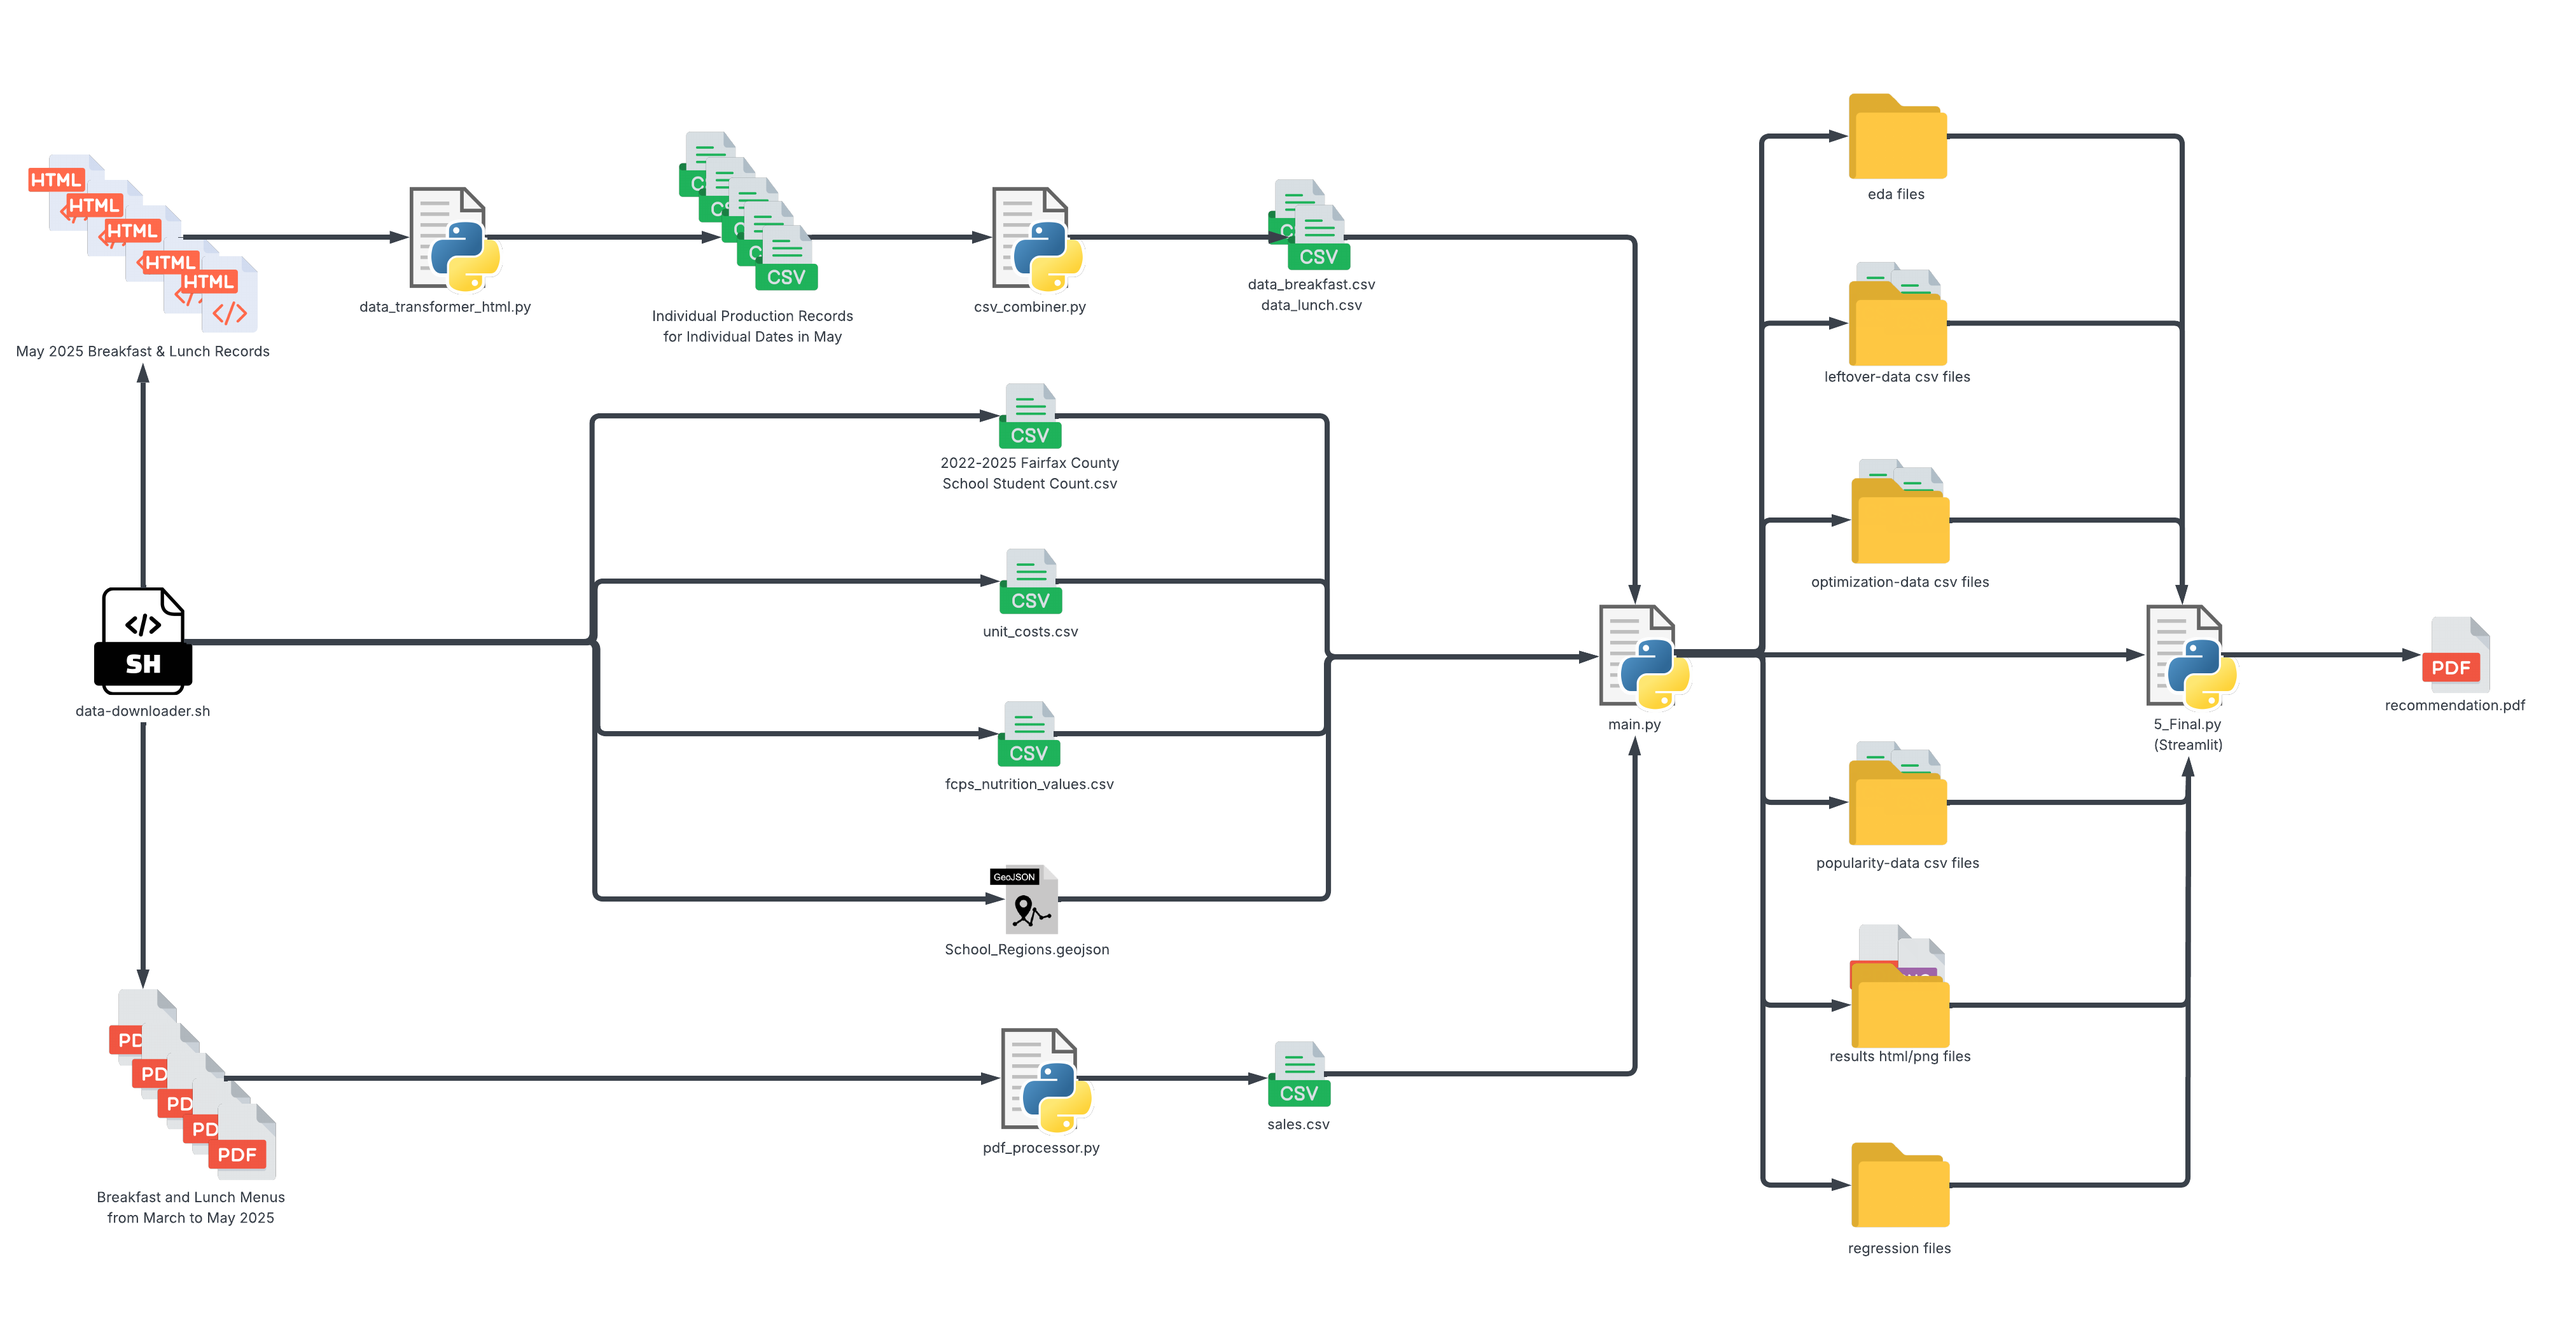
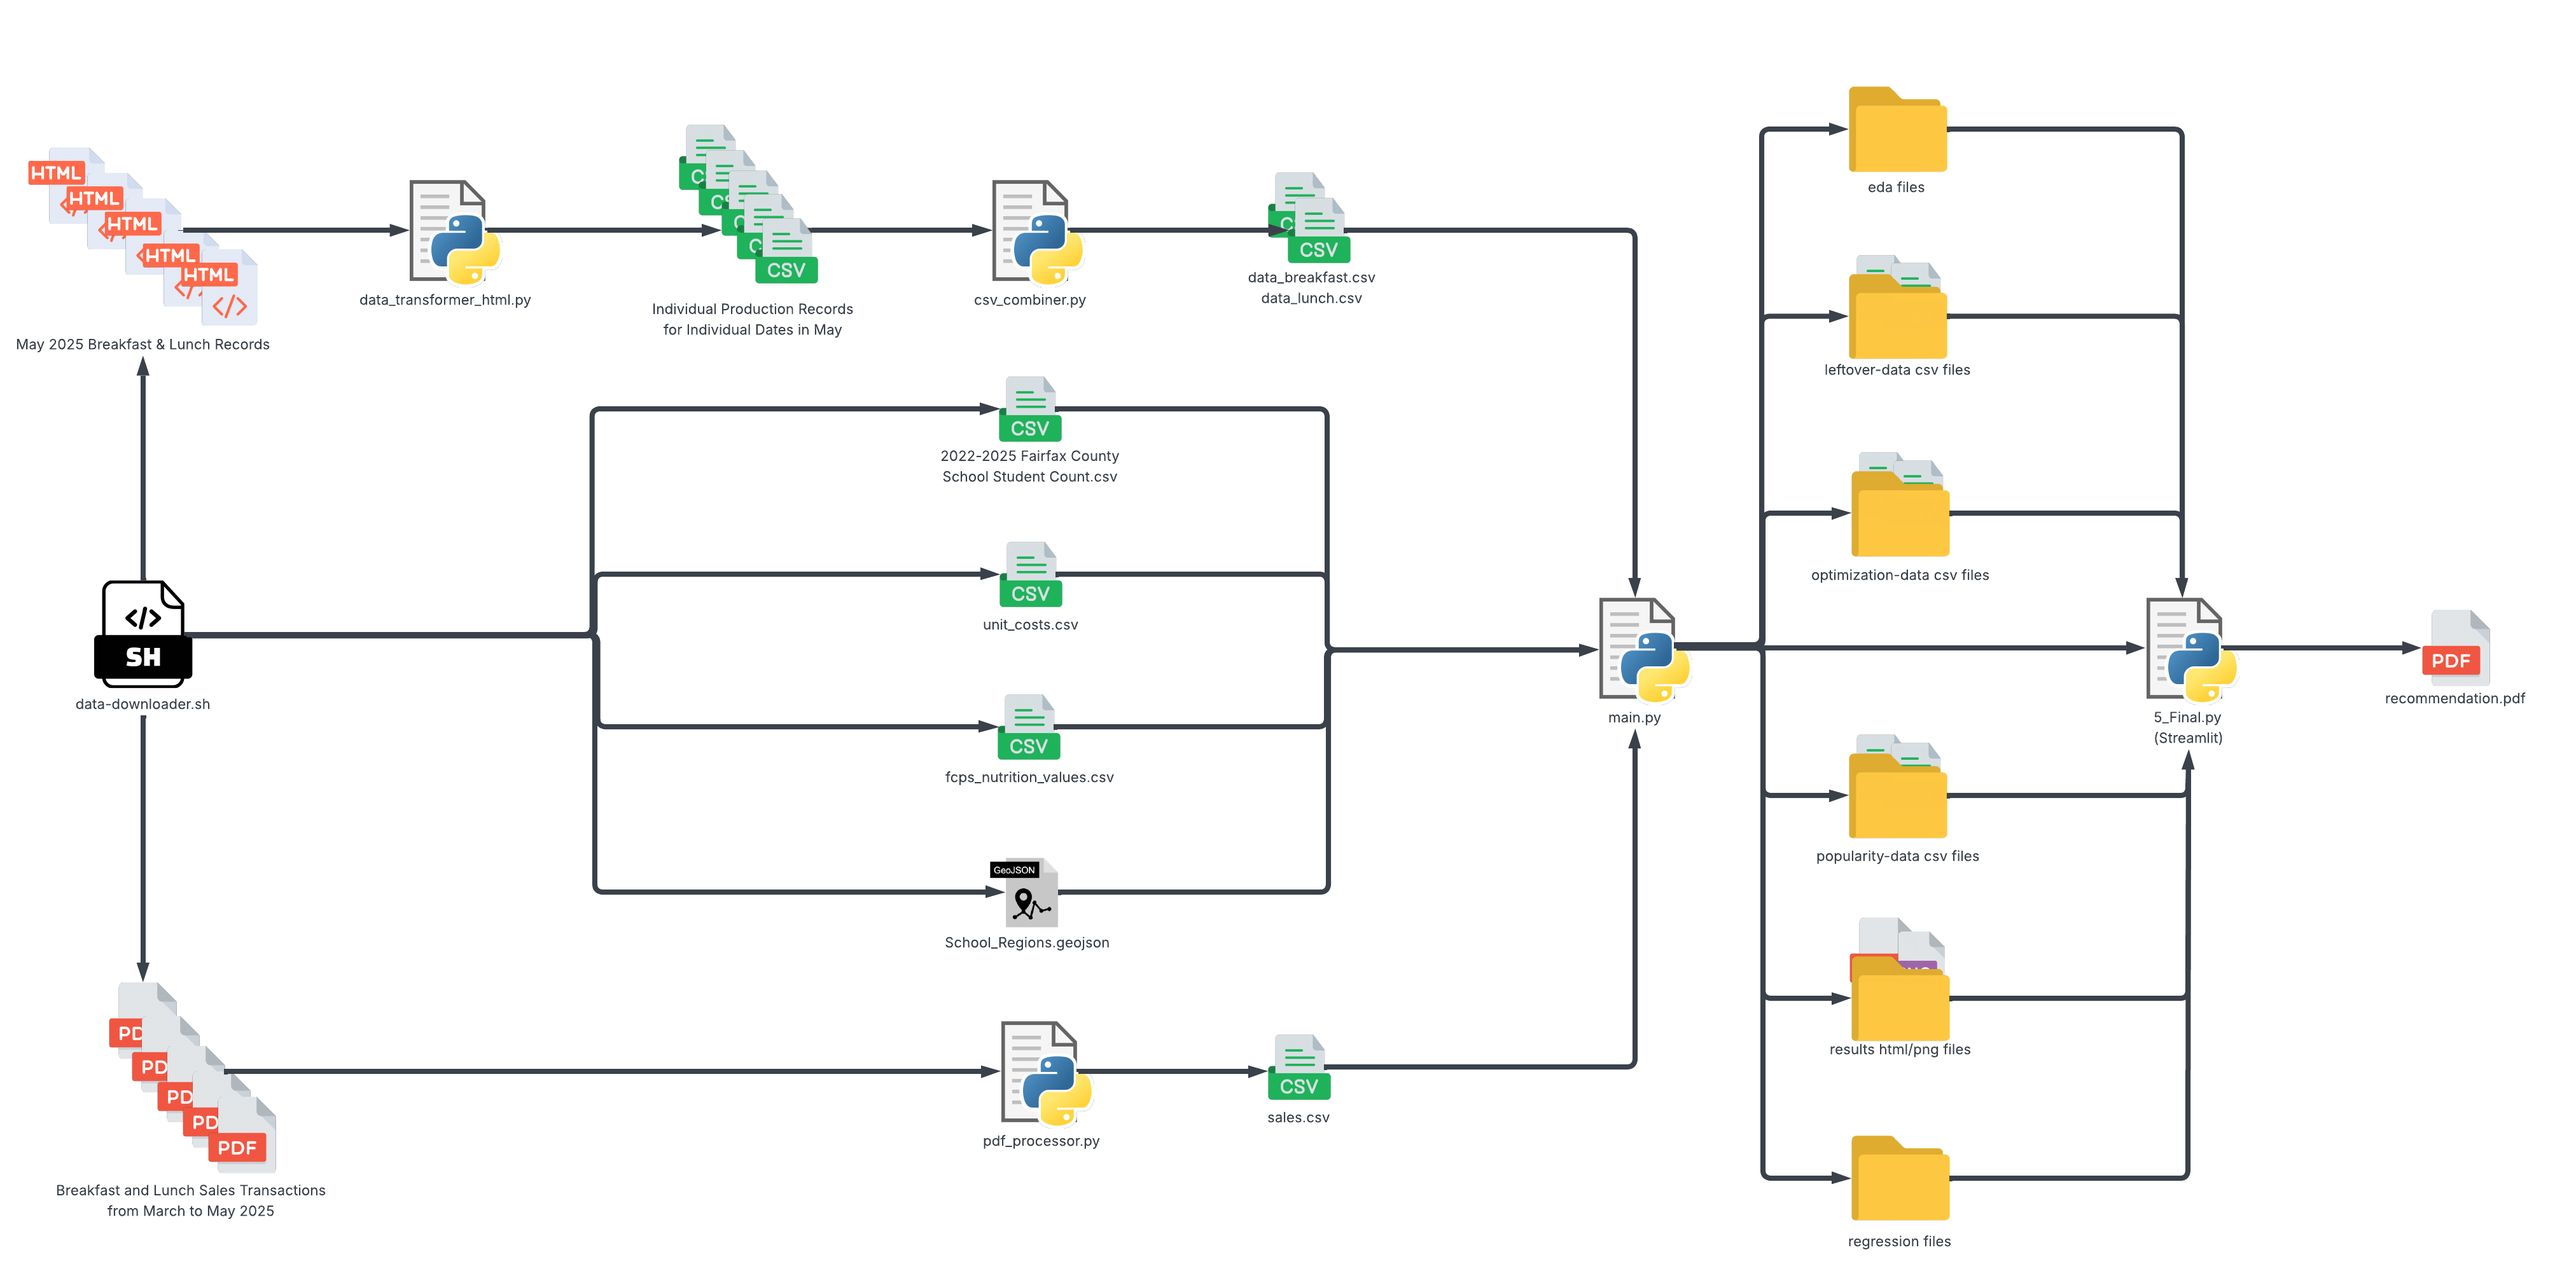
Main README Progress

Changed region(s): [[0.0, 0.0925, 0.996, 0.9562], [0.6848, 0.0617, 0.7781, 0.1542]]

diff --git a/Readme.md b/Readme.md
@@ -136,4 +136,102 @@ You can install the following modules through pip
 pip install -r src/requirements.txt
 ```
 
+The script will install the following modules required for the program to run:
+
+- `pandas`
+- `numpy`
+- `matplotlib`
+- `seaborn`
+- `statsmodels`
+- `scipy`
+- `beautifulsoup4`
+- `tqdm`
+- `plotly`
+- `PyPDF2`
+- `pdfplumber`
+- `nbformat`
+- `geopandas`
+- `shapely`
+- `folium`
+- `fpdf`
+- `fpdf2`
+- `streamlit`
+- `streamlit-folium`
+- `geojson`
+
 ## Processes and Scripts
+
+### 1. Downloading the required data
+
+    - **Objective**: Download the required data files from Box
+    - **Script**: `data-downloader.sh`
+    - **Inputs**: None
+    - **Outputs**:
+        - May 2025 Breakfast and Lunch Records (42 HTML Files)
+        - Breakfast and Lunch Sales Transactions from March to May 2025 (6 PDF files)
+        - `2022-2025 Fairfax County School Student count.csv`
+        - `unit_costs.csv`
+        - `fcps_nutrition_values.csv`
+        - `School_Regions.geopjson`
+
+### 2.1. Tranforming HTML record files into CSV files
+
+    - **Objective**: Transform the HTML breakfast and lunch records into individual CSV record files
+    - **Script**: `data-transformer_html.py`
+    - **Inputs**:
+        - May 2025 Breakfast and Lunch Records (42 HTML Files)
+    - **Outputs**:
+        - Individual Production Records for Individual Dates in May for Breakfast and Lunch (42 CSV files)
+
+### 2.2. Combining CSV Production Records into simpler CSV files
+
+    - **Objective**: Combine the individual production records into two CSV files; Breakfast and Lunch.
+    - **Script**: `csv_combiner.py`
+    - **Inputs**:
+        - Individual Production Records for Individual Dates in May for Breakfast and Lunch (42 CSV files)
+    - **Outputs**:
+        - `data_breakfast.csv`
+        - `data_lunch.csv`
+
+### 3. Processing PDF Monthly Daily Sales
+
+    - **Objective**: Extract from the PDF monthly daily sales into a combined transactional sales file.
+    - **Script**: `pdf_processor.py`
+    - **Inputs*:
+        - Breakfast and Lunch Sales Transactions from March to May 2025 (6 PDF files)
+    - **Outputs**:
+        - `sales.csv`
+
+### 4. The Main Program
+
+    - **Objective**: Analyze the input files, perform exploratory data analysis, popularity analysis, optimization, and regression analysis.
+    - **Script**: `main.py`
+    - **Input**:
+        - `data_breakfast.csv`
+        - `data_lunch.csv`
+        - `2022-2025 Fairfax County School Student Count.csv`
+        - `unit_costs.csv`
+        - `fcps_nutrition_values.csv`
+        - `School_Regions.geojson`
+        - `sales.csv`
+    - **Outputs**:
+        - Folder with EDA result files
+        - Folder with leftover result files
+        - Folder with optimization result files
+        - Folder with popularity result files
+        - Folder with regression result files
+        - Folder with graphs and map result files
+
+### 5. Streamlit UI Application
+
+    - **Objective**: Provide users a user interface of data analysis performed by the main program, and allow users to produce recommendation forms
+    - **Script**: `5_Final.py`
+    - **Inputs**:
+        - Folder with EDA result files
+        - Folder with leftover result files
+        - Folder with optimization result files
+        - Folder with popularity result files
+        - Folder with regression result files
+        - Folder with graphs and map result files
+    - **Outputs**:
+        - `recommendation.pdf`
